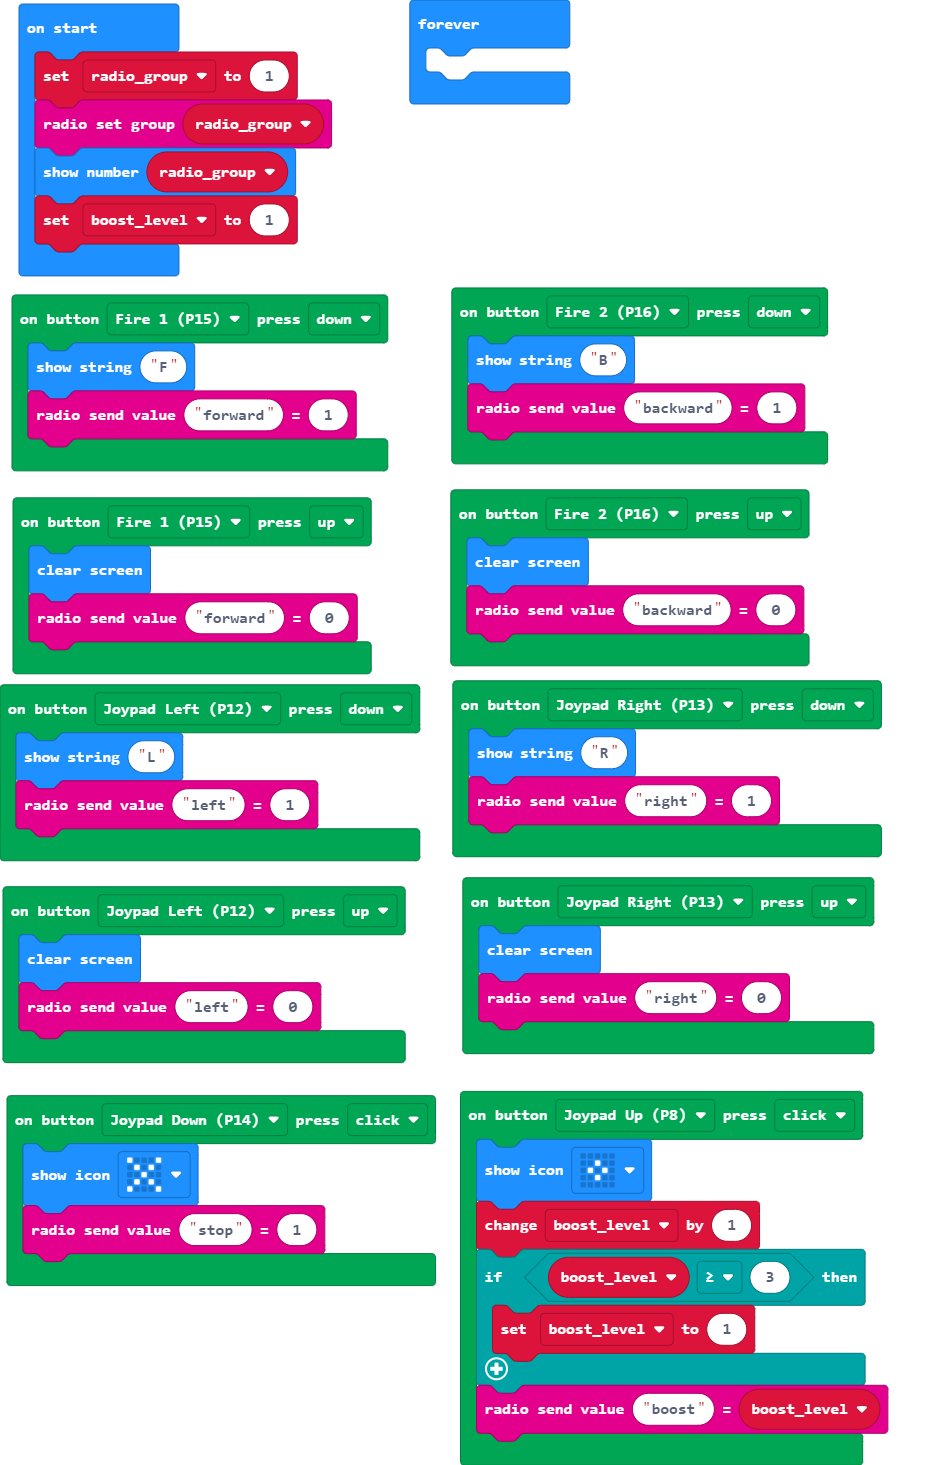
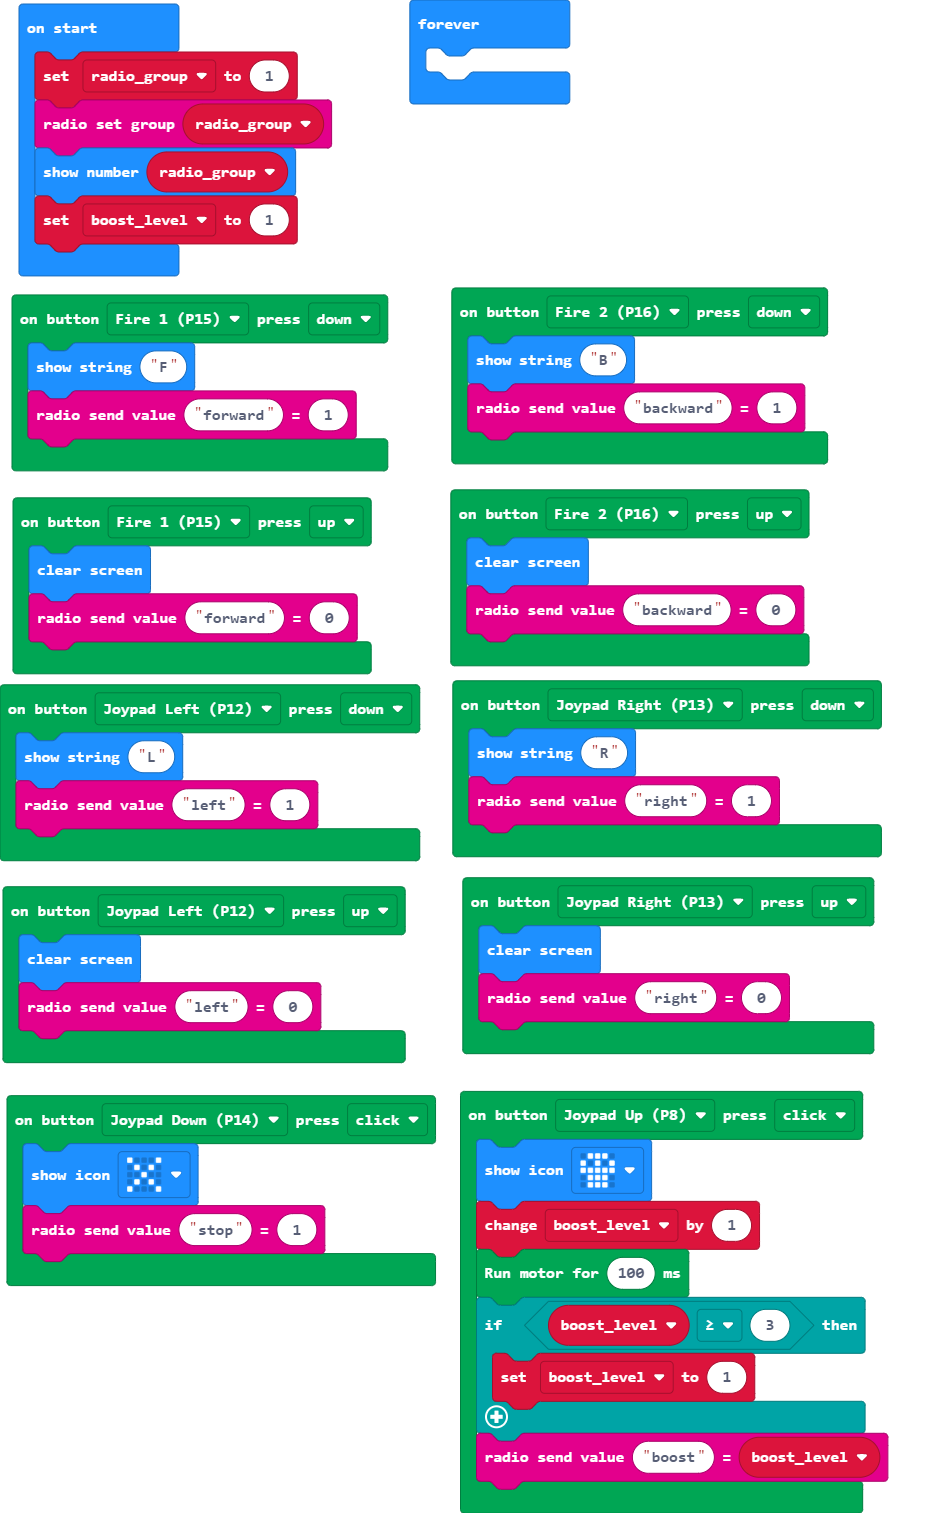
Update main.blocks, main.ts

diff --git a/main.ts b/main.ts
@@ -7,8 +7,9 @@ Kitronik_Game_Controller.onButtonPress(Kitronik_Game_Controller.ControllerButton
     radio.sendValue("backward", 1)
 })
 Kitronik_Game_Controller.onButtonPress(Kitronik_Game_Controller.ControllerButtonPins.Up, Kitronik_Game_Controller.ControllerButtonEvents.Click, function () {
-    basic.showIcon(IconNames.SmallDiamond)
+    basic.showIcon(IconNames.Skull)
     boost_level += 1
+    Kitronik_Game_Controller.runMotor(100)
     if (boost_level >= 3) {
         boost_level = 1
     }
